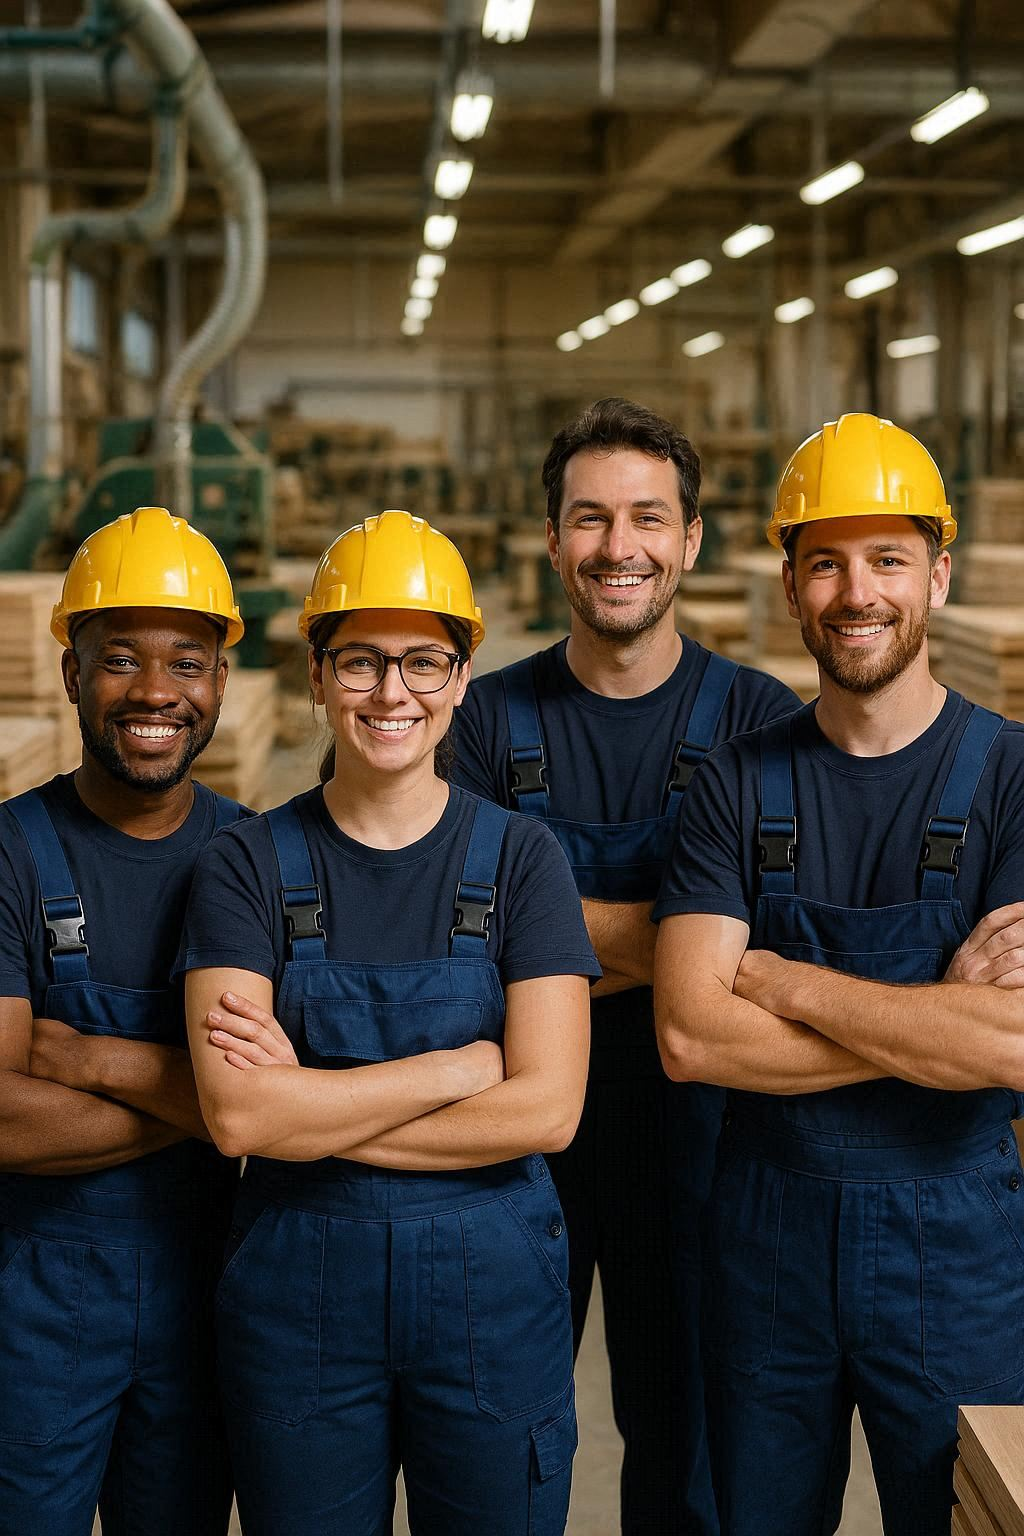
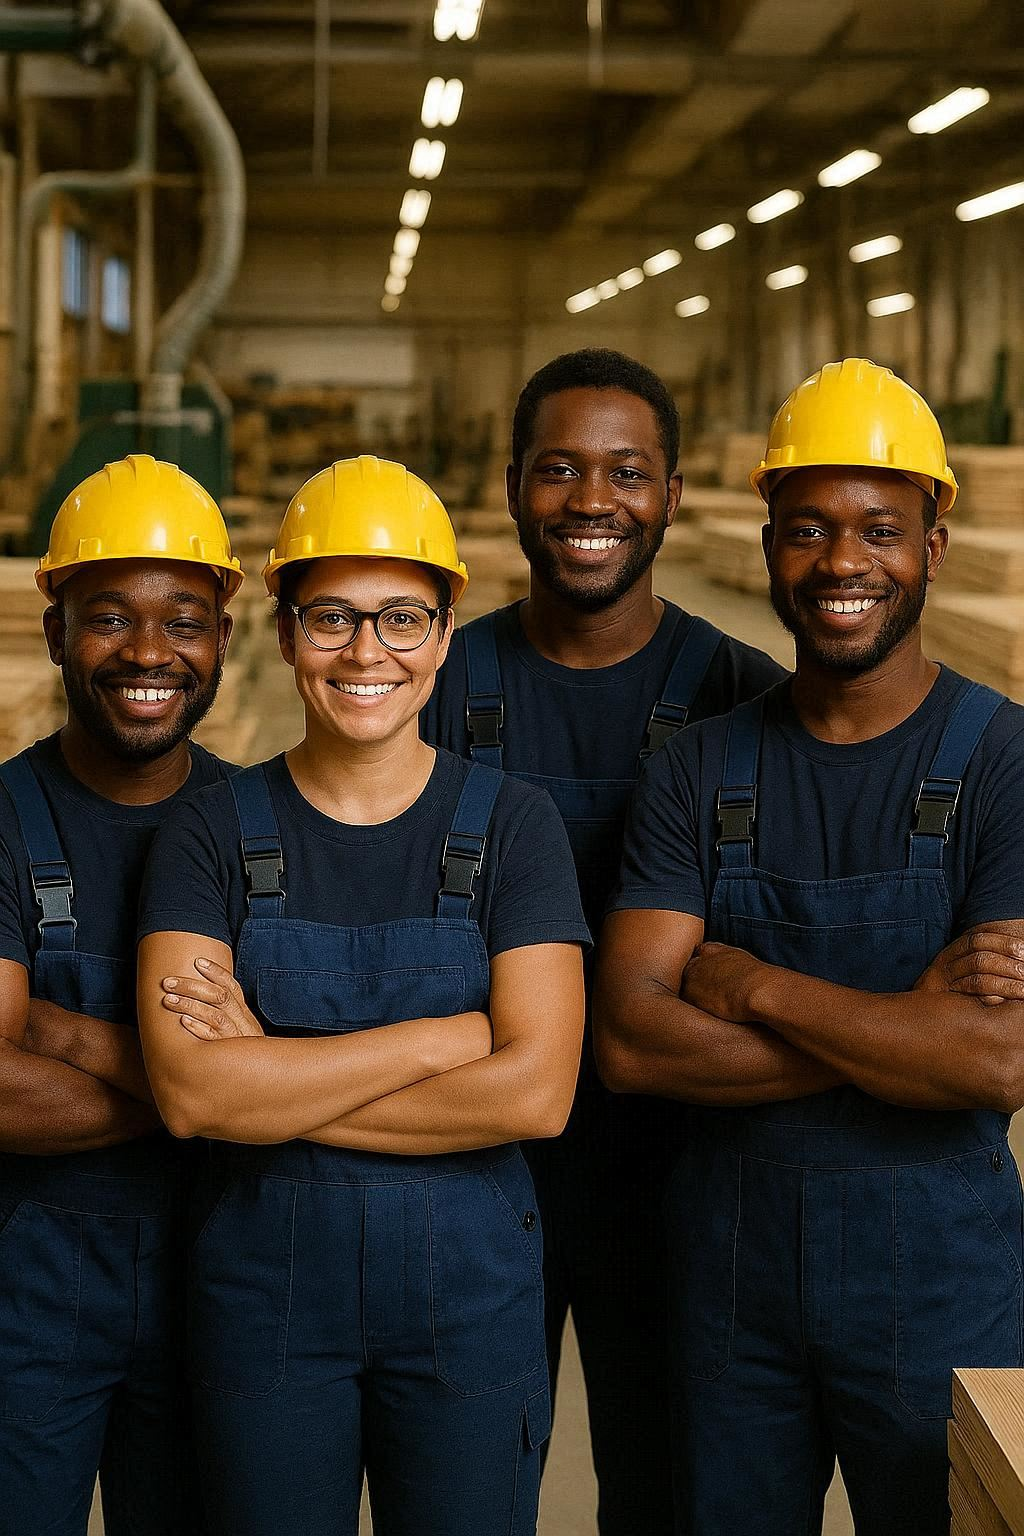
Some refactoring.

diff --git a/frontend/src/app/sections/AboutSection.tsx b/frontend/src/app/sections/AboutSection.tsx
@@ -53,12 +53,18 @@ const AboutSection = () => {
           </div>
 
           {/* CTA */}
-          <div className="mt-10">
+
+          <div className="relative z-10 flex justify-start">
             <Link
               href={Pages.contacts}
-              className="w-full sm:w-auto text-center border text-black px-5 py-3 hover:bg-neutral-200 transition"
+              className="group relative block px-4 py-2 text-center
+                     border border-primary text-primary hover:text-white
+                     overflow-hidden transition-all duration-300"
             >
-              Связаться с нами
+              <span className="relative z-10">Связаться с нами</span>
+
+              {/* hover fill */}
+              <span className="absolute inset-0 w-0 bg-primary transition-all duration-300 group-hover:w-full"></span>
             </Link>
           </div>
         </div>

diff --git a/frontend/src/app/sections/HeroSection.tsx b/frontend/src/app/sections/HeroSection.tsx
@@ -27,7 +27,7 @@ const HeroSection = () => {
 
       {/* Content */}
       <div className="relative z-10 flex h-full items-center px-4 sm:px-6 md:px-16 lg:px-32">
-        <div className="max-w-xl md:max-w-2xl">
+        <div className="max-w-xl md:max-w-2xl rounded-lg p-4 bg-amber-50/30 backdrop-blur-xs">
           {/* Title */}
           <h1 className="text-2xl sm:text-3xl md:text-5xl font-semibold leading-tight mb-4 md:mb-6 text-foreground">
             Мебель на заказ в Минске

diff --git a/frontend/src/components/Header/components/CTAButton.tsx b/frontend/src/components/Header/components/CTAButton.tsx
@@ -9,7 +9,7 @@ const CTAButton = () => {
 
   return (
     <button
-      className="btn-7  max-xl:text-sm"
+      className="btn-7 max-xl:text-sm"
       onClick={() => openModal(OrderForm, { onClose: closeModal })}
     >
       <div className="arrow-layer">

diff --git a/frontend/src/context/LoadingProvider/index.tsx b/frontend/src/context/LoadingProvider/index.tsx
@@ -22,7 +22,7 @@ const LoadingProvider = ({ children }: ILoadingProviderProps) => {
 
     const timer = setTimeout(() => {
       setShowLoading(false);
-    }, 1000);
+    }, 800);
 
     return () => clearTimeout(timer);
   }, [firstSegment]);